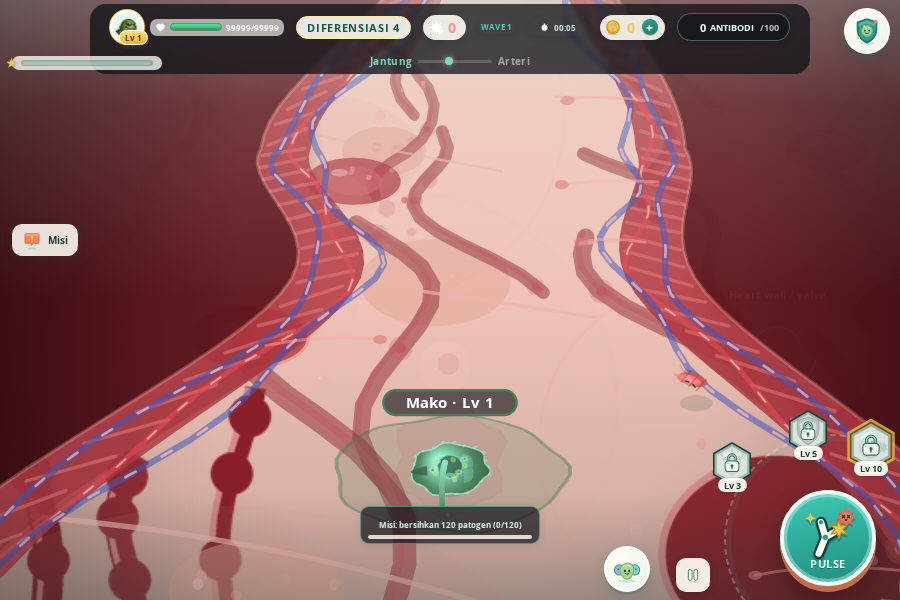
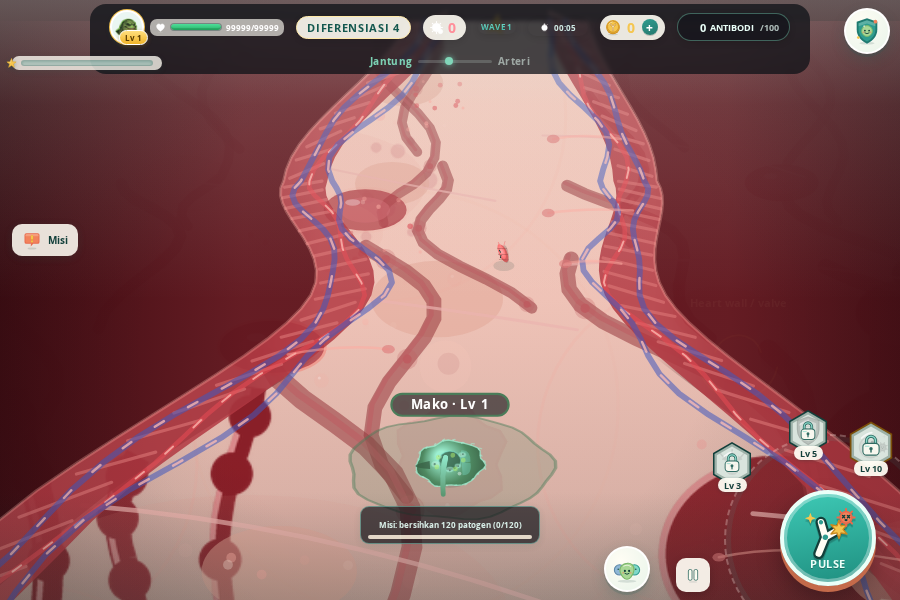
Kamera: zoom-out ringan saat di koridor organ (layer corridorScale, data shape.cameraZoom) + cek verify-world

diff --git a/js/render/camera.js b/js/render/camera.js
@@ -73,6 +73,11 @@ export class Camera {
     // zoneTarget (diset tiap frame oleh game.js dari posisi zona).
     this.zoneScale = 1;
     this.zoneTarget = 1;
+    // PILOT Organ Ascent: layer zoom-out ringan saat berada di koridor organ
+    // (siluet & kedua dinding lebih sering terbaca penuh). Independen dari
+    // zona/punch — tidak memicu getar, tidak dibatasi ≥1.
+    this.corridorScale = 1;
+    this.corridorTarget = 1;
   }
 
   reset(tx, ty) {
@@ -91,6 +96,8 @@ export class Camera {
     this.punchScale = 1;
     this.zoneScale = 1;
     this.zoneTarget = 1;
+    this.corridorScale = 1;
+    this.corridorTarget = 1;
   }
 
   /**
@@ -209,6 +216,12 @@ export class Camera {
       this.zoneScale += (this.zoneTarget - this.zoneScale) * k;
       if (Math.abs(this.zoneScale - this.zoneTarget) <= 1e-4) this.zoneScale = this.zoneTarget;
     }
+    // PILOT: zoom koridor menuju target, halus dua arah (~1 dtk)
+    if (Math.abs(this.corridorScale - this.corridorTarget) > 1e-4) {
+      const kc = 1 - Math.exp(-1.8 * dt);
+      this.corridorScale += (this.corridorTarget - this.corridorScale) * kc;
+      if (Math.abs(this.corridorScale - this.corridorTarget) <= 1e-4) this.corridorScale = this.corridorTarget;
+    }
     // Third-person: zoom kecepatan dihaluskan lambat (anti mual)
     if (Math.abs(this.speedScale - this.speedTarget) > 1e-4) {
       const kz = 1 - Math.exp(-THIRD_PERSON.ZOOM_RATE * dt);
@@ -217,9 +230,14 @@ export class Camera {
     }
   }
 
-  /** Faktor zoom total (urutan layer: speed → punch → zona). */
+  /** PILOT: target zoom koridor (1 = normal; <1 = sedikit menjauh). */
+  setCorridorZoom(target) {
+    this.corridorTarget = Math.max(0.7, Math.min(1, target == null ? 1 : target));
+  }
+
+  /** Faktor zoom total (urutan layer: speed → punch → zona → koridor). */
   totalZoom() {
-    return this.zoom * this.speedScale * this.punchScale * this.zoneScale;
+    return this.zoom * this.speedScale * this.punchScale * this.zoneScale * this.corridorScale;
   }
 
   /** Terapkan transform kamera ke ctx (w/h = ukuran viewport CSS px). */

diff --git a/js/core/game.js b/js/core/game.js
@@ -852,6 +852,8 @@ export const game = {
     run.camera.update(dt);
     // 11b. MAP: epic zoom zona — boss dekat / berdiri di zona bahaya
     run.camera.setZoneZoom(this.computeZoneZoomTarget(run, player));
+    // PILOT Organ Ascent: sedikit menjauh saat di koridor organ (dari data shape.cameraZoom)
+    try { run.camera.setCorridorZoom(run.arenaShape ? ((run.arenaShape.def && run.arenaShape.def.cameraZoom) || 0.88) : 1); } catch { /* abaikan */ }
 
     // Tutorial langkah "bergerak": akumulasi jarak pemain
     const mv = this.input.getMoveVector();

diff --git a/docs/PILOT-ORGAN-ASCENT-JANTUNG.md b/docs/PILOT-ORGAN-ASCENT-JANTUNG.md
@@ -56,7 +56,7 @@ npx esbuild --bundle js/main.js --outfile=.tmp-bundle.js --format=iife   ✔
 node tools/verify-animasi.mjs    === ERROR (0) ===
 node tools/verify-crawl.mjs      === ERROR (0) ===
 node tools/verify-prototype.mjs  === ERROR (0) ===   (asersi diperbarui, +6 cek)
-node tools/verify-world.mjs      === ERROR (0) ===   (+11 cek PILOT)
+node tools/verify-world.mjs      === ERROR (0) ===   (+12 cek PILOT)
 node tools/verify-rive/combat/economy/p5/gamefeel/attacks.mjs  === ERROR (0) ===
 node scripts/check-imports.mjs   Semua pemeriksaan lolos ✔
 ```
@@ -81,9 +81,10 @@ HP 99999 → 99999 di keduanya; jarak tempuh vertikal per detik identik (perbeda
 
 Siap di-scale karena: (1) pola data-driven — organ baru = blok `shape.profile` (belasan angka) + warna `wall`, hero baru = 3 field opsional di rig; (2) 0 perubahan di mekanik terbukti oleh test; (3) jalur lama tetap utuh sebagai fallback.
 
-Yang sebaiknya dibereskan sebelum 6 organ lain:
-1. **Kamera zoom-out sedikit saat berada di koridor** (mis. `ZONE_ZOOM` 0.9 saat `arenaShape` aktif) — di lebar bilik 780 unit, kedua dinding baru terlihat bersamaan di bagian sempit; owner mungkin ingin siluet lebih sering terbaca penuh.
-2. **Musuh dari bawah** — spawn masih radial di sekeliling player (mekanik lama, sengaja tidak diubah). Untuk rasa "didaki", bias spawn ke bawah (y > player) bisa jadi tweak `getSpawnPosition` opsional per-shape — ini perubahan gameplay ringan, butuh keputusan owner.
-3. Untuk **paru** (bercabang) profil tunggal tidak cukup — perlu ekstensi `kind:'branch'` (2–3 koridor bergabung). Pola `halfAt/centerAt` masih bisa dipakai per cabang.
+Sudah dikerjakan di PR ini (revisi #1): **zoom-out ringan saat di koridor** — layer `corridorScale` di `Camera` (independen dari zona/punch, tanpa getar), target dari `shape.cameraZoom` (jantung 0,88), kembali 1 saat keluar koridor; dicek `verify-world`. Screenshot `after-*` sudah memakai zoom ini.
+
+Yang masih butuh keputusan owner sebelum 6 organ lain:
+1. **Musuh dari bawah** — spawn masih radial di sekeliling player (mekanik lama, sengaja tidak diubah). Untuk rasa "didaki", bias spawn ke bawah (y > player) bisa jadi tweak `getSpawnPosition` opsional per-shape — ini perubahan gameplay ringan, butuh keputusan owner.
+2. Untuk **paru** (bercabang) profil tunggal tidak cukup — perlu ekstensi `kind:'branch'` (2–3 koridor bergabung). Pola `halfAt/centerAt` masih bisa dipakai per cabang.
 
 Hero berikutnya: neutrophil & dendritic sudah punya rig penuh; cukup tambah `PILOT_CREATURE_HEROES` + field identitas (granula multi-lobus / dendrit) — tanpa kode baru di renderer kecuali bentuk khas yang diinginkan.
